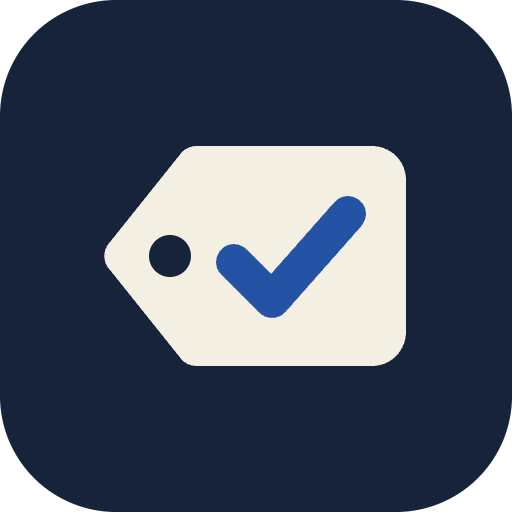
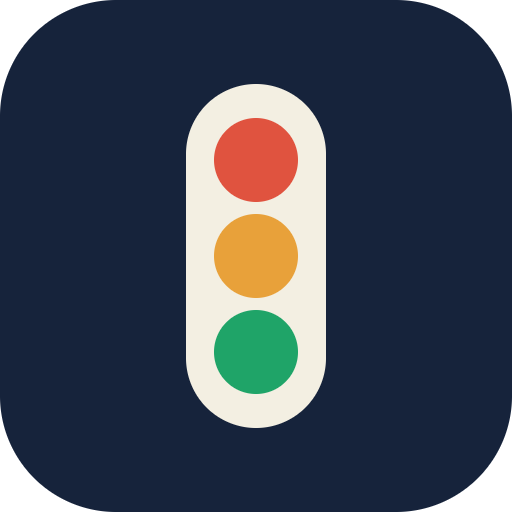
getfixbook.com is a simple sign-in screen; the traffic light replaces the tag mark; hello@getfixbook.com replaces colby@

Changed region(s): [[0.1875, 0.1562, 0.8125, 0.8438]]

diff --git a/index.html b/index.html
@@ -3,120 +3,61 @@
 <head>
 <meta charset="utf-8">
 <meta name="viewport" content="width=device-width, initial-scale=1">
-<title>Fixbook | Maintenance for restaurants, bars and hotels</title>
-<meta name="description" content="Planned servicing and reactive jobs for every site, in one place. Staff report it from their phone, your maintenance team books it in, and it stays on the board until it is done.">
+<title>Fixbook | Sign in</title>
+<meta name="description" content="Fixbook: maintenance for restaurants, bars and hotels. Sign in to your account.">
 <link rel="canonical" href="https://getfixbook.com/">
 <meta property="og:title" content="Fixbook | Nothing gets missed">
-<meta property="og:description" content="Planned servicing and reactive jobs for every site, in one place.">
+<meta property="og:description" content="Maintenance for restaurants, bars and hotels.">
 <meta property="og:url" content="https://getfixbook.com/">
-<meta property="og:type" content="website">
 <meta property="og:image" content="https://getfixbook.com/img/og.png">
 <meta name="theme-color" content="#16233B">
 <link rel="icon" href="/img/mark.svg" type="image/svg+xml">
 <link rel="icon" href="/img/favicon-32.png" sizes="32x32" type="image/png">
 <link rel="apple-touch-icon" href="/img/apple-touch-icon.png">
 <link rel="preload" href="/fonts/schibstedgrotesk-normal-400-900-latin.woff2" as="font" type="font/woff2" crossorigin>
-<link rel="stylesheet" href="/styles.css">
+<link rel="stylesheet" href="/fonts/fonts.css">
+<style>
+*{box-sizing:border-box}
+html,body{height:100%}
+body{margin:0;background:#16233B;color:#FBFAF5;font-family:'Schibsted Grotesk','Helvetica Neue',Arial,sans-serif;
+  -webkit-font-smoothing:antialiased;display:flex;flex-direction:column;min-height:100dvh}
+main{flex:1;display:grid;place-items:center;padding:40px 24px}
+.box{width:100%;max-width:400px;text-align:center}
+.mark{display:inline-flex;align-items:center;gap:12px;font-weight:800;font-size:28px;letter-spacing:-.035em;color:#FBFAF5;text-decoration:none}
+.mark svg{border-radius:12px}
+h1{margin:36px 0 12px;font-size:clamp(34px,8vw,46px);font-weight:800;letter-spacing:-.045em;line-height:1}
+h1 span{color:#8FB0EA}
+p{margin:0;color:rgba(246,244,236,.68);font-size:17px;line-height:1.5}
+.go{display:flex;align-items:center;justify-content:center;gap:10px;width:100%;height:56px;margin-top:36px;border-radius:14px;
+  background:#F3EFE2;color:#16233B;font-weight:700;font-size:17px;text-decoration:none;transition:background .15s ease,transform .15s ease}
+.go:hover{background:#fff}
+.go:active{transform:scale(.985)}
+.go:focus-visible{outline:3px solid #8FB0EA;outline-offset:3px}
+.help{margin-top:18px;font-size:14.5px;color:rgba(246,244,236,.55)}
+.help a{color:#8FB0EA;text-decoration:none;font-weight:600}
+.help a:hover{color:#C3D4F4}
+footer{padding:22px 24px 28px;text-align:center;font-size:12.5px;line-height:1.6;color:rgba(246,244,236,.42)}
+footer nav{display:flex;justify-content:center;gap:4px 18px;flex-wrap:wrap;margin-bottom:8px}
+footer a{color:rgba(246,244,236,.62);text-decoration:none;display:inline-flex;align-items:center;min-height:44px}
+footer a:hover{color:#FBFAF5}
+.rise{animation:rise .5s cubic-bezier(.2,.7,.2,1) both}
+@keyframes rise{from{opacity:0;transform:translateY(10px)}}
+@media (prefers-reduced-motion:reduce){.rise{animation:none}}
+</style>
 </head>
 <body>
-<a class="skip" href="#main">Skip to content</a>
-
-<header class="top" id="top">
-  <div class="wrap">
-    <a class="brand" href="/" aria-label="Fixbook home"><img src="/img/mark.svg" alt="" width="30" height="30">Fixbook</a>
-    <div class="right">
-      <a class="signin" href="mailto:colby@getfixbook.com">Contact</a>
-      <a class="btn primary" href="https://app.getfixbook.com/login">Sign in</a>
-    </div>
+<main>
+  <div class="box rise">
+    <a class="mark" href="/" aria-label="Fixbook"><svg width="44" height="44" aria-hidden="true" xmlns="http://www.w3.org/2000/svg" viewBox="0 0 512 512"><rect width="512" height="512" rx="116" fill="#16233B"/><rect x="186" y="84" width="140" height="344" rx="70" fill="#F3EFE2"/><circle cx="256" cy="160" r="42" fill="#E0533F"/><circle cx="256" cy="256" r="42" fill="#E8A13A"/><circle cx="256" cy="352" r="42" fill="#1FA468"/></svg> Fixbook</a>
+    <h1>Nothing gets <span>missed.</span></h1>
+    <p>Maintenance for restaurants, bars and hotels.</p>
+    <a class="go" href="https://app.getfixbook.com/login">Sign in <span aria-hidden="true">&rarr;</span></a>
+    <p class="help">Need access? <a href="mailto:hello@getfixbook.com?subject=Fixbook">Get in touch</a></p>
   </div>
-</header>
-
-<main id="main">
-
-<!-- ============================================================ hero -->
-<section class="hero">
-  <div class="wrap">
-    <div>
-      <p class="eyebrow rise d1">Maintenance for restaurants, bars and hotels</p>
-      <h1 class="rise d2">Nothing gets <span class="soft">missed.</span></h1>
-      <p class="lede rise d3">Planned servicing and reactive jobs for every site, in one place. Report it from your phone, see who is coming and when, and know when it is done.</p>
-      <div class="ctas rise d4">
-        <a class="btn primary" href="https://app.getfixbook.com/login">Sign in <span class="arr" aria-hidden="true">&rarr;</span></a>
-        <a class="btn quiet" href="mailto:colby@getfixbook.com?subject=Fixbook">Get in touch</a>
-      </div>
-      <p class="fine rise d5"><span>Works on any phone</span><span>Nothing to install</span><span>Data kept in the UK</span></p>
-    </div>
-
-    <div class="ticketstage rise d5">
-      <span class="tag example">Example</span>
-      <article class="ticket" id="ticket" data-step="1" aria-label="An example job: a walk-in fridge is reported, booked with a refrigeration firm for Thursday, then marked done.">
-        <div class="main">
-          <div class="t-head">
-            <span class="t-site">Northern Quarter</span>
-            <span class="t-status" aria-hidden="true">
-              <span class="pill red">Reported</span>
-              <span class="pill amber">Booked, Thu 08:00</span>
-              <span class="pill green">Done</span>
-            </span>
-          </div>
-          <h3 class="t-title">Walk-in fridge not holding temperature</h3>
-          <div class="t-photos" aria-hidden="true"><span></span><span></span><span>+1</span></div>
-          <ol class="t-steps">
-            <li><span class="dot"></span><span><b>Reported by Sam, head chef</b><small>"Reading 9&deg;C at opening." Three photos.</small></span><time>Tue 07:42</time></li>
-            <li><span class="dot"></span><span><b>Booked: Coldline Refrigeration</b><small>Coming Thursday at 08:00</small></span><time>Tue 08:05</time></li>
-            <li><span class="dot"></span><span><b>Done: fan motor replaced</b><small>Engineer's report attached</small></span><time>Thu 10:20</time></li>
-          </ol>
-        </div>
-        <div class="stub" aria-hidden="true">
-          <span class="jobno">JOB 1042</span>
-          <span class="lights"><i></i><i></i><i></i></span>
-        </div>
-      </article>
-    </div>
-  </div>
-</section>
-
-<!-- ============================================================ three parts -->
-<section class="parts">
-  <div class="wrap">
-    <div class="three">
-      <div class="part reveal">
-        <span class="no">01 &middot; PREVENTATIVE</span>
-        <h2>Every service on its own calendar</h2>
-        <p>Fire alarm, gas, extraction, pest control and the rest, weekly to yearly. Due turns it red, booked amber, done green.</p>
-      </div>
-      <div class="part reveal">
-        <span class="no">02 &middot; REACTIVE</span>
-        <h2>Every job from report to done</h2>
-        <p>Reported from a phone with photos. Booked with who is coming and when. Marked done with the report attached.</p>
-      </div>
-      <div class="part reveal">
-        <span class="no">03 &middot; EVERY SITE</span>
-        <h2>One screen for every site</h2>
-        <p>Red, amber or green for each site, and why. A week before anything is due, the manager and maintenance are emailed.</p>
-      </div>
-    </div>
-  </div>
-</section>
-
 </main>
-
 <footer>
-  <div class="wrap">
-    <div class="row">
-      <a class="brand" href="/" aria-label="Fixbook home"><img src="/img/mark.svg" alt="" width="26" height="26">Fixbook</a>
-      <nav class="links" aria-label="Footer">
-        <a href="/security/">Security</a>
-        <a href="/privacy/">Privacy</a>
-        <a href="/terms/">Terms</a>
-        <a href="https://app.getfixbook.com/login">Sign in</a>
-        <a href="mailto:colby@getfixbook.com">colby@getfixbook.com</a>
-      </nav>
-    </div>
-    <p class="legal">Fixbook is a trading name of Staffbook Ltd, registered in England and Wales, company number 17402902. Registered office: 82A James Carter Road, Mildenhall, IP28 7DE. Registered with the Information Commissioner's Office, reference ZC227838.</p>
-  </div>
+  <nav aria-label="Footer"><a href="/security/">Security</a><a href="/privacy/">Privacy</a><a href="/terms/">Terms</a></nav>
+  Fixbook is a trading name of Staffbook Ltd, registered in England and Wales, company number 17402902.<br>Registered office: 82A James Carter Road, Mildenhall, IP28 7DE. ICO reference ZC227838.
 </footer>
-
-<script src="/site.js" defer></script>
 </body>
 </html>

diff --git a/privacy/index.html b/privacy/index.html
@@ -18,7 +18,7 @@
   <div class="wrap">
     <a class="brand" href="/" aria-label="Fixbook home"><img src="/img/mark.svg" alt="" width="30" height="30">Fixbook</a>
     <div class="right">
-      <a class="signin" href="mailto:colby@getfixbook.com">Contact</a>
+      <a class="signin" href="mailto:hello@getfixbook.com">Contact</a>
       <a class="btn primary" href="https://app.getfixbook.com/login">Sign in</a>
     </div>
   </div>
@@ -30,7 +30,7 @@
 <p class="lede">Who holds what, on what basis, for how long, and what you can do about it.</p>
 <p class="meta">Last updated 30 September 2026</p>
 
-<div class="card"><p>Fixbook is a trading name of Staffbook Ltd, registered in England and Wales, company number 17402902. Registered office: 82A James Carter Road, Mildenhall, IP28 7DE. Registered with the Information Commissioner's Office, reference ZC227838. Questions about your data: <a href="mailto:colby@getfixbook.com">colby@getfixbook.com</a>.</p></div>
+<div class="card"><p>Fixbook is a trading name of Staffbook Ltd, registered in England and Wales, company number 17402902. Registered office: 82A James Carter Road, Mildenhall, IP28 7DE. Registered with the Information Commissioner's Office, reference ZC227838. Questions about your data: <a href="mailto:hello@getfixbook.com">hello@getfixbook.com</a>.</p></div>
 
 <h2>1. If you visit this website</h2>
 <p>This website sets no cookies and runs no analytics. It is served by GitHub Pages, which keeps standard connection logs (such as your IP address and the pages requested) to run and protect the service. If you email us, we use your details to reply and for nothing else.</p>
@@ -55,7 +55,7 @@
 <p>While your organisation uses Fixbook. When it leaves, we give it a copy of its data and then delete it from the service.</p>
 
 <h2>Your rights</h2>
-<p>You can ask to see the data held about you, to have it corrected or deleted, to limit or object to how it is used, and to get a copy you can take elsewhere. Where we are the controller, email <a href="mailto:colby@getfixbook.com">colby@getfixbook.com</a> and we will deal with it within a month. If you are not happy with our answer, you can complain to the Information Commissioner's Office at <a href="https://ico.org.uk">ico.org.uk</a>.</p>
+<p>You can ask to see the data held about you, to have it corrected or deleted, to limit or object to how it is used, and to get a copy you can take elsewhere. Where we are the controller, email <a href="mailto:hello@getfixbook.com">hello@getfixbook.com</a> and we will deal with it within a month. If you are not happy with our answer, you can complain to the Information Commissioner's Office at <a href="https://ico.org.uk">ico.org.uk</a>.</p>
 
 <h2>Changes</h2>
 <p>If this notice changes in a way that matters, the date at the top changes and we say what changed here.</p>
@@ -69,7 +69,7 @@
         <a href="/privacy/">Privacy</a>
         <a href="/terms/">Terms</a>
         <a href="https://app.getfixbook.com/login">Sign in</a>
-        <a href="mailto:colby@getfixbook.com">colby@getfixbook.com</a>
+        <a href="mailto:hello@getfixbook.com">hello@getfixbook.com</a>
       </nav>
     </div>
     <p class="legal">Fixbook is a trading name of Staffbook Ltd, registered in England and Wales, company number 17402902. Registered office: 82A James Carter Road, Mildenhall, IP28 7DE. Registered with the Information Commissioner's Office, reference ZC227838.</p>

diff --git a/security/index.html b/security/index.html
@@ -18,7 +18,7 @@
   <div class="wrap">
     <a class="brand" href="/" aria-label="Fixbook home"><img src="/img/mark.svg" alt="" width="30" height="30">Fixbook</a>
     <div class="right">
-      <a class="signin" href="mailto:colby@getfixbook.com">Contact</a>
+      <a class="signin" href="mailto:hello@getfixbook.com">Contact</a>
       <a class="btn primary" href="https://app.getfixbook.com/login">Sign in</a>
     </div>
   </div>
@@ -51,7 +51,7 @@
 <p>If you stop using Fixbook, we give you your data and then delete it from the service.</p>
 
 <h2>Found a problem?</h2>
-<p>If you think you have found a security problem, email <a href="mailto:colby@getfixbook.com">colby@getfixbook.com</a>. We will reply and fix it.</p>
+<p>If you think you have found a security problem, email <a href="mailto:hello@getfixbook.com">hello@getfixbook.com</a>. We will reply and fix it.</p>
 </main>
 <footer>
   <div class="wrap">
@@ -62,7 +62,7 @@
         <a href="/privacy/">Privacy</a>
         <a href="/terms/">Terms</a>
         <a href="https://app.getfixbook.com/login">Sign in</a>
-        <a href="mailto:colby@getfixbook.com">colby@getfixbook.com</a>
+        <a href="mailto:hello@getfixbook.com">hello@getfixbook.com</a>
       </nav>
     </div>
     <p class="legal">Fixbook is a trading name of Staffbook Ltd, registered in England and Wales, company number 17402902. Registered office: 82A James Carter Road, Mildenhall, IP28 7DE. Registered with the Information Commissioner's Office, reference ZC227838.</p>

diff --git a/terms/index.html b/terms/index.html
@@ -18,7 +18,7 @@
   <div class="wrap">
     <a class="brand" href="/" aria-label="Fixbook home"><img src="/img/mark.svg" alt="" width="30" height="30">Fixbook</a>
     <div class="right">
-      <a class="signin" href="mailto:colby@getfixbook.com">Contact</a>
+      <a class="signin" href="mailto:hello@getfixbook.com">Contact</a>
       <a class="btn primary" href="https://app.getfixbook.com/login">Sign in</a>
     </div>
   </div>
@@ -43,7 +43,7 @@
 <p>These terms are governed by the law of England and Wales.</p>
 
 <h2>Contact</h2>
-<p><a href="mailto:colby@getfixbook.com">colby@getfixbook.com</a></p>
+<p><a href="mailto:hello@getfixbook.com">hello@getfixbook.com</a></p>
 </main>
 <footer>
   <div class="wrap">
@@ -54,7 +54,7 @@
         <a href="/privacy/">Privacy</a>
         <a href="/terms/">Terms</a>
         <a href="https://app.getfixbook.com/login">Sign in</a>
-        <a href="mailto:colby@getfixbook.com">colby@getfixbook.com</a>
+        <a href="mailto:hello@getfixbook.com">hello@getfixbook.com</a>
       </nav>
     </div>
     <p class="legal">Fixbook is a trading name of Staffbook Ltd, registered in England and Wales, company number 17402902. Registered office: 82A James Carter Road, Mildenhall, IP28 7DE. Registered with the Information Commissioner's Office, reference ZC227838.</p>

diff --git a/404.html b/404.html
@@ -17,7 +17,7 @@
   <div class="wrap">
     <a class="brand" href="/" aria-label="Fixbook home"><img src="/img/mark.svg" alt="" width="30" height="30">Fixbook</a>
     <div class="right">
-      <a class="signin" href="mailto:colby@getfixbook.com">Contact</a>
+      <a class="signin" href="mailto:hello@getfixbook.com">Contact</a>
       <a class="btn primary" href="https://app.getfixbook.com/login">Sign in</a>
     </div>
   </div>
@@ -36,7 +36,7 @@
         <a href="/privacy/">Privacy</a>
         <a href="/terms/">Terms</a>
         <a href="https://app.getfixbook.com/login">Sign in</a>
-        <a href="mailto:colby@getfixbook.com">colby@getfixbook.com</a>
+        <a href="mailto:hello@getfixbook.com">hello@getfixbook.com</a>
       </nav>
     </div>
     <p class="legal">Fixbook is a trading name of Staffbook Ltd, registered in England and Wales, company number 17402902. Registered office: 82A James Carter Road, Mildenhall, IP28 7DE. Registered with the Information Commissioner's Office, reference ZC227838.</p>
